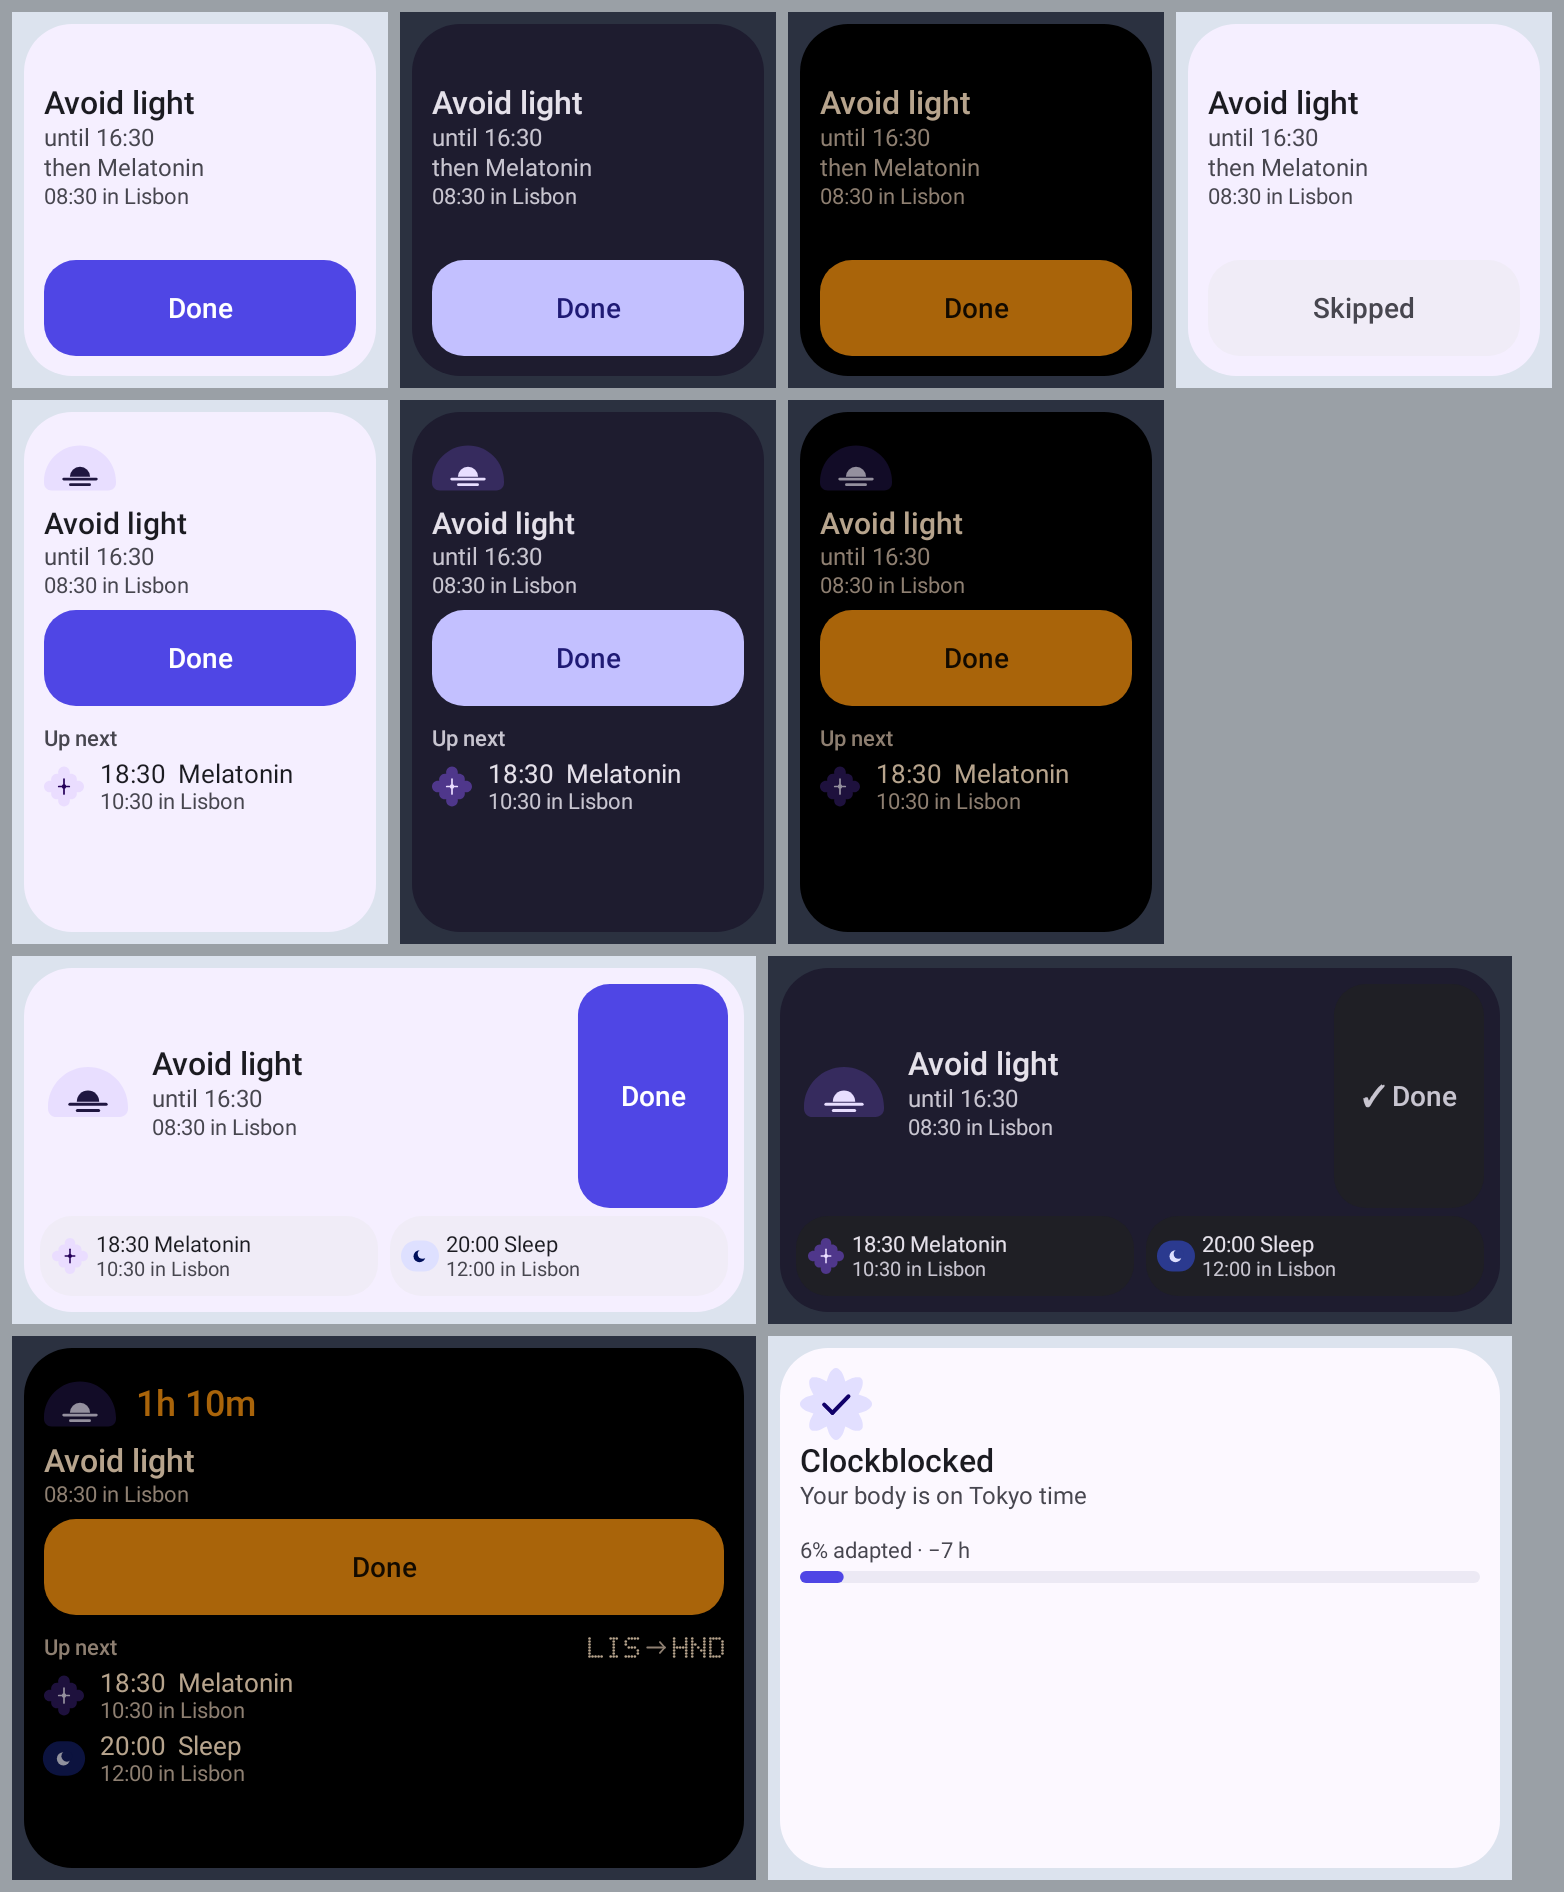
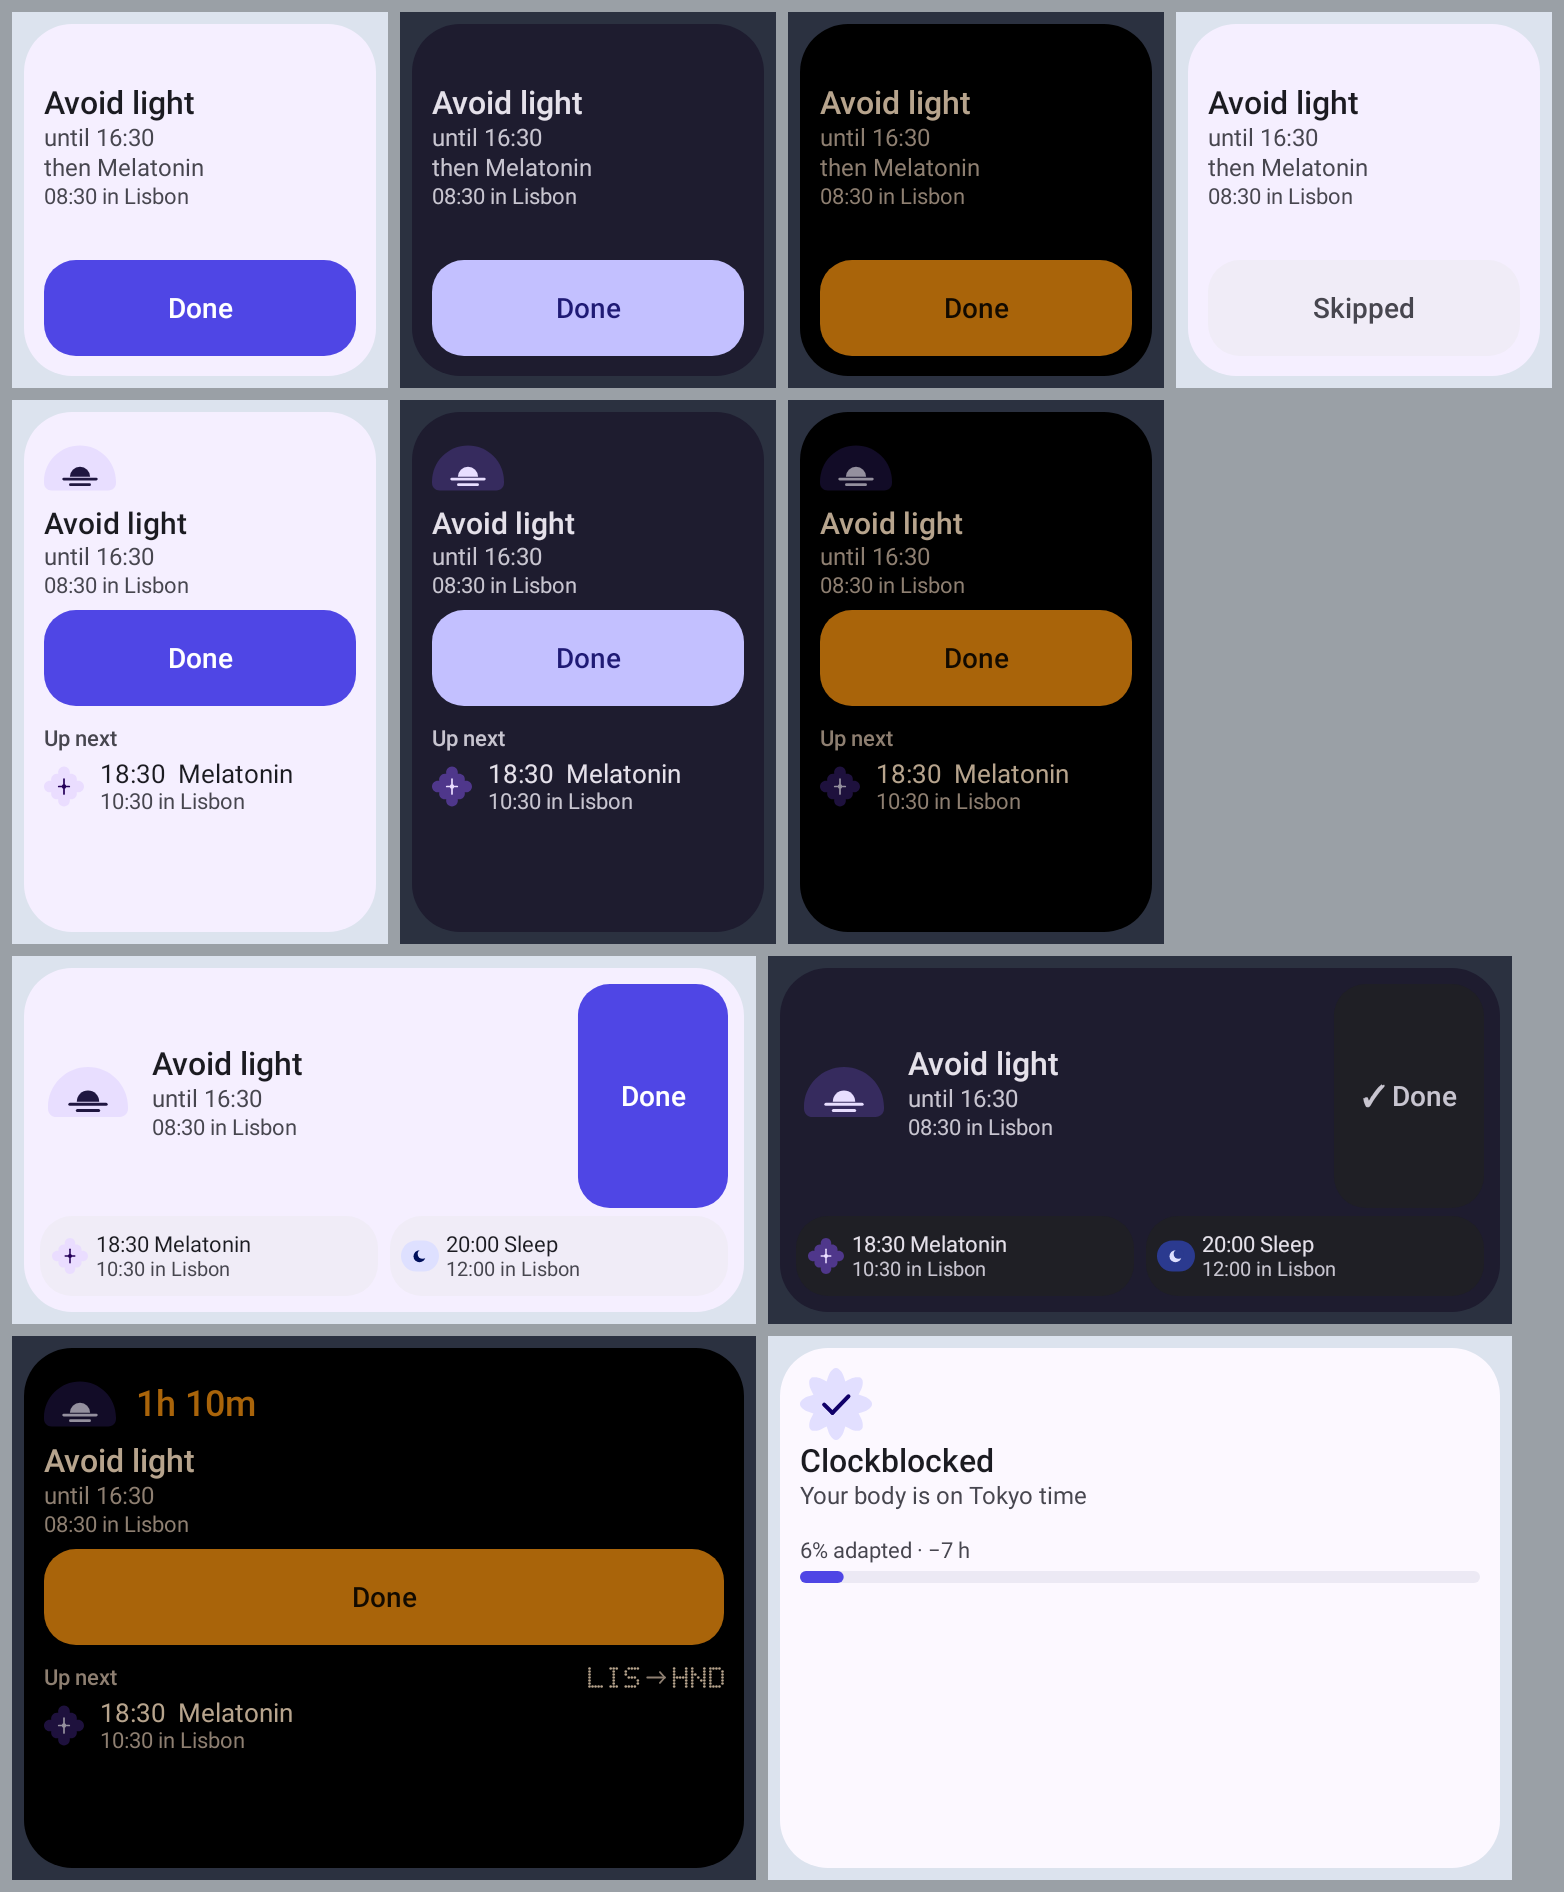
Widgets: up next rows give way before the now block's until line
Tall Next up and Large Two Clocks kept up next rows even when that cost the
now block its until line. Rows now drop first, as docs/surfaces.md says.

Changed region(s): [[0.0307, 0.7796, 0.4604, 0.9355]]

diff --git a/widget/src/main/kotlin/dev/sebastiano/clockblocker/opus/widget/rc/LabelFit.kt b/widget/src/main/kotlin/dev/sebastiano/clockblocker/opus/widget/rc/LabelFit.kt
@@ -485,13 +485,13 @@ internal object LabelFit {
         val done = stackDone(context, texts, width)
         // Up next already says what comes next: the stack drops its "then …" line for the room.
         val withThen = texts.upcoming.isEmpty()
-        // The glyph and countdown go only once every Up next row has.
+        // Rows go first, then the glyph and countdown, and only then the now block's "until" line.
         for (glyphOptional in listOf(false, true)) {
             for (rows in min(UP_NEXT_ROWS, texts.upcoming.size) downTo 0) {
                 val upNext = upNextRows(context, texts, width, rows, barWithRows = false, withRoute = true) ?: continue
                 val upNextHeight = if (upNext.heightDp > 0f) upNext.heightDp + UP_NEXT_TOP_STACK_DP else 0f
                 val now = nowStack(context, texts, cell, total - upNextHeight, withThen, glyphOptional)
-                if (now.fits) return WidgetFit(now = now, upNext = upNext, done = done)
+                if (now.fits && now.details.isNotEmpty()) return WidgetFit(now = now, upNext = upNext, done = done)
             }
         }
         return WidgetFit(now = nowStack(context, texts, cell, total, withThen), done = done)
@@ -514,11 +514,14 @@ internal object LabelFit {
         val total = cell.height - 2 * SURFACE_PAD_DP - strip
         val cardWidth = cardWidthDp(TwoClocksLayout.Large, texts, cell)
         val done = clocksDone(context, texts, cell, total)
+        // Rows go before the now card's "until" line.
         for (rows in min(UP_NEXT_ROWS, texts.upcoming.size) downTo 0) {
             val upNext = upNextRows(context, texts, inner - 2 * UP_NEXT_SIDE_LARGE_DP, rows, barWithRows = true, withRoute = false) ?: continue
             val upNextHeight = if (upNext.heightDp > 0f) upNext.heightDp + UP_NEXT_TOP_LARGE_DP else 0f
             val now = nowCard(context, texts, cardWidth, total - upNextHeight - 2 * CARD_V_PAD_DP, withHeader = false)
-            if (now.fits) return WidgetFit(now = now, upNext = upNext, done = done, headerStrip = header, headerRoute = headerRoute)
+            if (now.fits && now.details.isNotEmpty()) {
+                return WidgetFit(now = now, upNext = upNext, done = done, headerStrip = header, headerRoute = headerRoute)
+            }
         }
         val now = nowCard(context, texts, cardWidth, total - 2 * CARD_V_PAD_DP, withHeader = false)
         return WidgetFit(now = now, done = done, headerStrip = header, headerRoute = headerRoute)

diff --git a/widget/src/test/kotlin/dev/sebastiano/clockblocker/opus/widget/rc/WidgetLabelFitTest.kt b/widget/src/test/kotlin/dev/sebastiano/clockblocker/opus/widget/rc/WidgetLabelFitTest.kt
@@ -163,6 +163,26 @@ class WidgetLabelFitTest {
     }
 
     @Test
+    fun `up next rows give way before the now block's until line`() {
+        val failures = sortedSetOf<String>()
+        everyDisplay { display ->
+            for (place in places) for (case in cases(is24 = false, place)) {
+                val until = case.texts.subtitleLines.firstOrNull() ?: continue
+                fun verify(fit: WidgetFit, where: String) {
+                    val now = fit.now ?: return
+                    val keptUntil = now.details.any { it.text.contains(until) }
+                    if (!keptUntil && fit.upNext.rows.isNotEmpty()) {
+                        failures += "${case.name} $display $place $where: ${fit.upNext.rows.size} up next rows, no \"$until\""
+                    }
+                }
+                WidgetSizes.NEXT_UP.forEach { verify(nextUp(case.texts, it), "Next up ${it.layout} ${it.min}") }
+                WidgetSizes.TWO_CLOCKS.forEach { verify(twoClocks(case.texts, it), "Two Clocks ${it.layout} ${it.min}") }
+            }
+        }
+        withClue(failures.joinToString("\n")) { failures.shouldBeEmpty() }
+    }
+
+    @Test
     fun `every Done label fits every bucket at its minimum size`() {
         val failures = mutableListOf<String>()
         val texts = cases(is24 = false, place = SAN_FRANCISCO).first { it.name == "See bright light" }.texts
@@ -352,7 +372,7 @@ class WidgetLabelFitTest {
         shown(cpc, medium) shouldBe str(R.string.widget_secondary_time, "11:30 PM", "Chapelco")
         RuntimeEnvironment.setFontScale(1.3f)
         shown(cpc, medium) shouldBe str(R.string.widget_secondary_time, "11:30 PM", "CPC")
-        shown(TestPlace("Qian Gorlos Mongol Autonomous County", "YSQ"), largest) shouldBe
+        shown(TestPlace("Qian Gorlos Mongol Autonomous County", "YSQ"), medium) shouldBe
             str(R.string.widget_secondary_time, "11:30 PM", "YSQ")
     }
 

diff --git a/docs/surfaces.md b/docs/surfaces.md
@@ -321,8 +321,8 @@ so if the app isn't running at the time, the next widget update or advice bounda
   The label and the other zone's time always stay.
 - A long place name gets shorter before the label shrinks: first the name up to the first "/", " - " or "(",
   then the airport code ("11:30 PM in YSQ"). Screen readers still read the full name.
-- "Up next" rows drop last first, so the current block keeps its room. The 4×2 Next up shows only the capsules
-  whose label fits whole: two at most font sizes.
+- "Up next" rows drop last first, so the current block keeps its room: every row goes before the now block's
+  "until" line. The 4×2 Next up shows only the capsules whose label fits whole: two at most font sizes.
 - The 1×1 Next up shows only the label, never the other zone. Its label may shrink until it is 7 dp tall on
   screen (6 sp at 1.3×), so "Clockblocked" fits a 57 dp cell.
 
